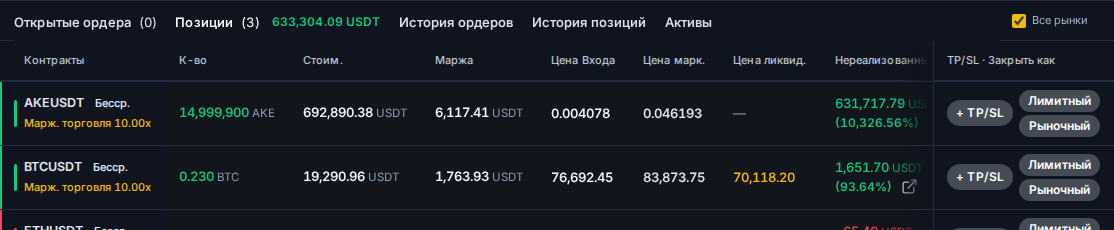
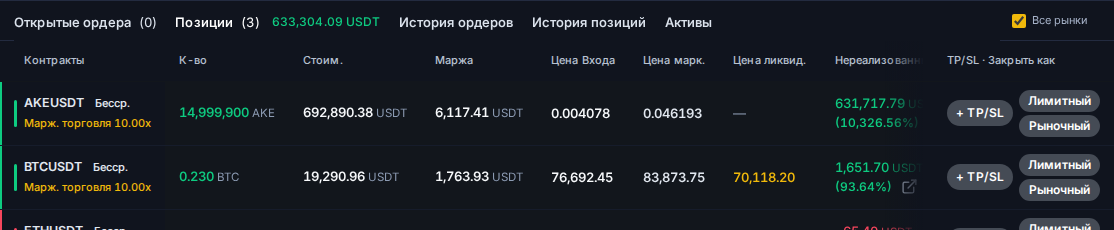
Positions table: lines blend as on the reference
No line under the tab strip or the headings, row separators in the
panel's raised tone (the cells' inline border overridden), no 1px seam
at the pinned columns and a 48px fade into them. Rows stay 64px.

Claude-Session: https://claude.ai/code/session_01QYDaBPmAQT7kqxtv32nEHZ

diff --git a/frontend/src/pages/trade-terminal/ArchiveTerminalPreview.css b/frontend/src/pages/trade-terminal/ArchiveTerminalPreview.css
@@ -205,9 +205,13 @@
 #archive-terminal-preview .archive-protection-fields input { min-width:0; width:100%; border:1px solid #2a3948; background:#172432; color:var(--text-primary); padding:10px; border-radius:7px; font-size:13px; }
 #archive-terminal-preview .archive-order-protection small { font-size:11px; line-height:16px; color:var(--text-secondary); }
 #archive-terminal-preview .archive-pair-filter { margin-left:auto; padding:0 12px; display:flex; align-items:center; gap:6px; font-size:11px; white-space:nowrap; color:var(--text-secondary); }
-#archive-terminal-preview .bottom-tabs { padding:0; gap:18px; }
+/* LINES BLEND (owner, 2026-09-24, beside the reference): the tab strip has
+   no line of its own — only the chosen tab's 2px gold underline — the
+   heading row has no hairline under it, and the pinned columns have no
+   1px seam: figures fade into them over 48px. */
+#archive-terminal-preview .bottom-tabs { padding:0; gap:18px; border-bottom:0; box-shadow:none; }
 #archive-terminal-preview .bottom-tab .reference-tab-count { background:transparent; padding:0 0 0 4px; font-size:inherit; color:inherit; }
-#archive-terminal-preview .bottom-tab .reference-tab-pnl { margin-left:8px; font-size:12px; font-weight:600; font-variant-numeric:tabular-nums; }
+#archive-terminal-preview .bottom-tab .reference-tab-pnl { margin-left:8px; font-size:12px; font-weight:500; font-variant-numeric:tabular-nums; }
 #archive-terminal-preview .bottom-tab .reference-tab-pnl.text-buy { color:var(--buy); }
 #archive-terminal-preview .bottom-tab .reference-tab-pnl.text-sell { color:var(--sell); }
 #archive-terminal-preview .bottom-tabs .bottom-tab { font-size:13px; font-weight:550; color:#dce3ed; }
@@ -264,7 +268,17 @@
    of meeting the titles text-on-text (owner, 2026-09-23: «верхній текст не
    залазить на нижній»). The rule is drawn inside the cell, not as a border:
    a collapsed border does not travel with a sticky heading. */
-#archive-terminal-preview .futures-positions-table thead th::after { content:''; position:absolute; left:0; right:0; bottom:0; height:1px; background:var(--border); pointer-events:none; }
+#archive-terminal-preview .futures-positions-table thead th::after { content:none; }
+/* The rows' separators blend too. They are the cells' inline
+   `border-top:1px solid var(--border)` (hence !important) and the reference
+   sheet's 1px #2a2a31 on the row: between rows they take the panel's raised
+   tone, between the headings and the first row nothing. Same 1px, so the
+   64px row does not move. Desktop only; the phone rows are cards. */
+@media (min-width:901px) {
+  #archive-terminal-preview .futures-position-row { border-top:0; }
+  #archive-terminal-preview .futures-positions-table tbody td { border-top:1px solid var(--panel-alt) !important; }
+  #archive-terminal-preview .futures-positions-table tbody tr:first-child td { border-top-color:transparent !important; }
+}
 /* Every heading stays on ONE line (the owner, 2026-09-23: the two-line
    «Цена / Входа», «Цена / маркировки», «Цена / ликвид.» beside one-line
    titles read as text stacked on text). A title is never wrapped to make a
@@ -298,9 +312,7 @@
      pinned column's measured width (`--pin-start`, set by the panel).
    Desktop only: on a phone the rows are cards and `td::before` is a label. */
 @media (min-width:901px) {
-  #archive-terminal-preview .futures-positions-scroll[data-hidden-end=true] .futures-positions-table :is(th,td):last-child { box-shadow:inset 1px 0 0 var(--border); }
-  #archive-terminal-preview .futures-positions-scroll[data-hidden-end=true] .futures-positions-table :is(th,td):last-child::before { content:''; position:absolute; top:0; bottom:0; right:100%; width:34px; pointer-events:none; background:linear-gradient(90deg,transparent,var(--pos-cell-bg) 85%); }
-  #archive-terminal-preview .futures-positions-scroll[data-hidden-start=true] .futures-positions-table :is(th,td):first-child { box-shadow:inset -1px 0 0 var(--border); }
+  #archive-terminal-preview .futures-positions-scroll[data-hidden-end=true] .futures-positions-table :is(th,td):last-child::before { content:''; position:absolute; top:0; bottom:0; right:100%; width:48px; pointer-events:none; background:linear-gradient(90deg,transparent,var(--pos-cell-bg) 80%); }
   #archive-terminal-preview .futures-positions-scroll[data-hidden-start=true] { -webkit-mask-image:linear-gradient(90deg,#000 var(--pin-start,0px),transparent var(--pin-start,0px),#000 calc(var(--pin-start,0px) + 30px)); mask-image:linear-gradient(90deg,#000 var(--pin-start,0px),transparent var(--pin-start,0px),#000 calc(var(--pin-start,0px) + 30px)); }
 }
 

diff --git a/docs/AI_HANDOFF.md b/docs/AI_HANDOFF.md
@@ -3633,3 +3633,4 @@ withdrawal was placed.
 - Preserved: #216/#220 (padding from the panel's width, quiet units, pinned edges with fades, centred headings over a hairline), the one-line-heading rule, the phone cards (`td::before` labels, 44px targets), the #161 removal of Close All from the archive design, the Pro terminal's Close All confirmation flow.
 - Unresolved: at 1366 the row is still 47px wider than the panel; a 1024-wide panel would need fewer columns, which the owner has not asked for. Not deployed.
 - **Follow-up after the owner's review of the preview** («багато чисел стоять дуже близько одне до одного… можна зробити таку полосу прокрутки, щоб частину під панель сховати і дати тексту дихати»): the padding floor `--pos-cell-x` is 14px (was 5px wide / 4px narrow / 5px fallback), so the figures never sit closer than 28px and the panel scrolls sideways under its own scrollbar instead. This reverses the earlier goal of no scroll at 1440; the owner chose air over fit. Measured (same rows, Inter): 2000 and 1920 no scroll, gaps 32–52 / 28–48px; 1664 scroll 125px; 1440 scroll 179px (was 0 with 9px gaps); 1366 scroll 247px (was 47 with 8px); gaps 28px at all three; rows 64px; 0 clipped cells; no page overflow. The `after-*` desktop screenshots re-taken; `qa-futures-bottom-panel.cjs` PASS.
+- **Lines blend, as on the reference** (owner, 2026-09-24, boxes on the tab strip, under the headings and at the pinned column): the tab strip draws no line of its own (only the chosen tab's gold underline); the heading row's hairline (`thead th::after`) is gone; the rows' separators — the cells' inline `border-top:1px solid var(--border)` (overridden with `!important`) and the reference sheet's `#2a2a31` on the row — take the panel's raised tone between rows and are transparent under the headings; the pinned columns lose their 1px seam and the figures fade into them over 48px (was 34). Same 1px border, so rows stay 64px. Desktop only. Measured: first row border transparent, others `rgb(30,35,41)`, pinned cell box-shadow none, fade 48px at 1440. Guards `futuresVisualPolish`, `futuresReferenceRow`, `futuresFinalPolish`, `futuresProTerminal` 92/92; production build PASS; `qa-futures-bottom-panel.cjs` PASS; `qa-futures-visual-polish.cjs` PASS (run before the row-separator edit). `after-*` desktop screenshots re-taken.
